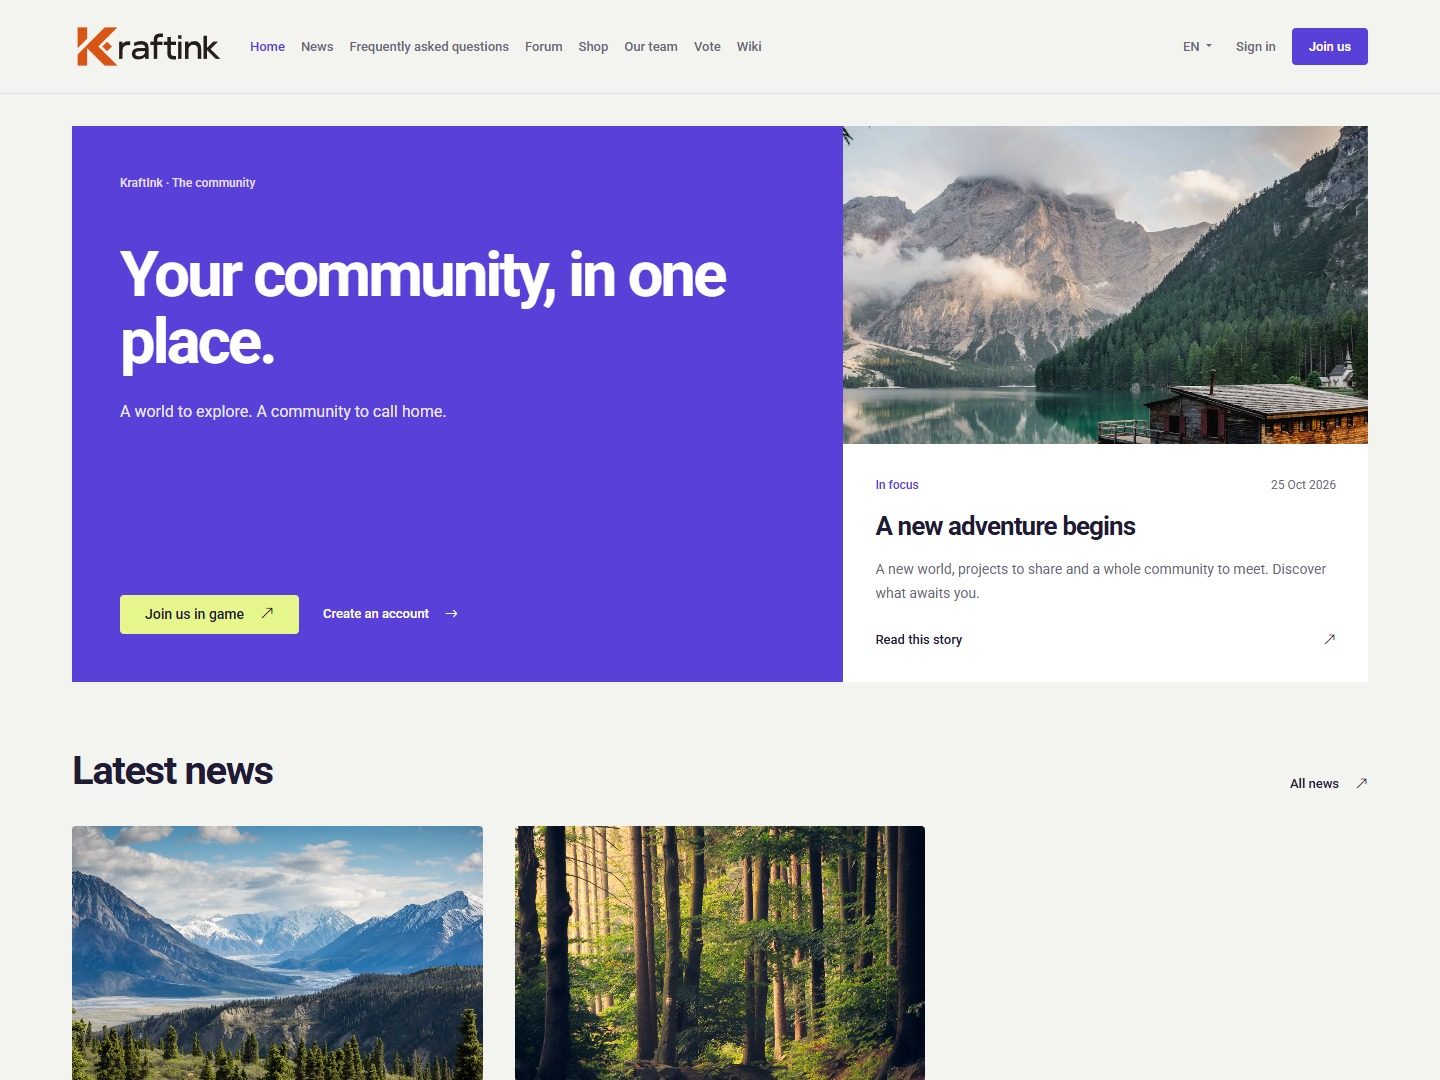
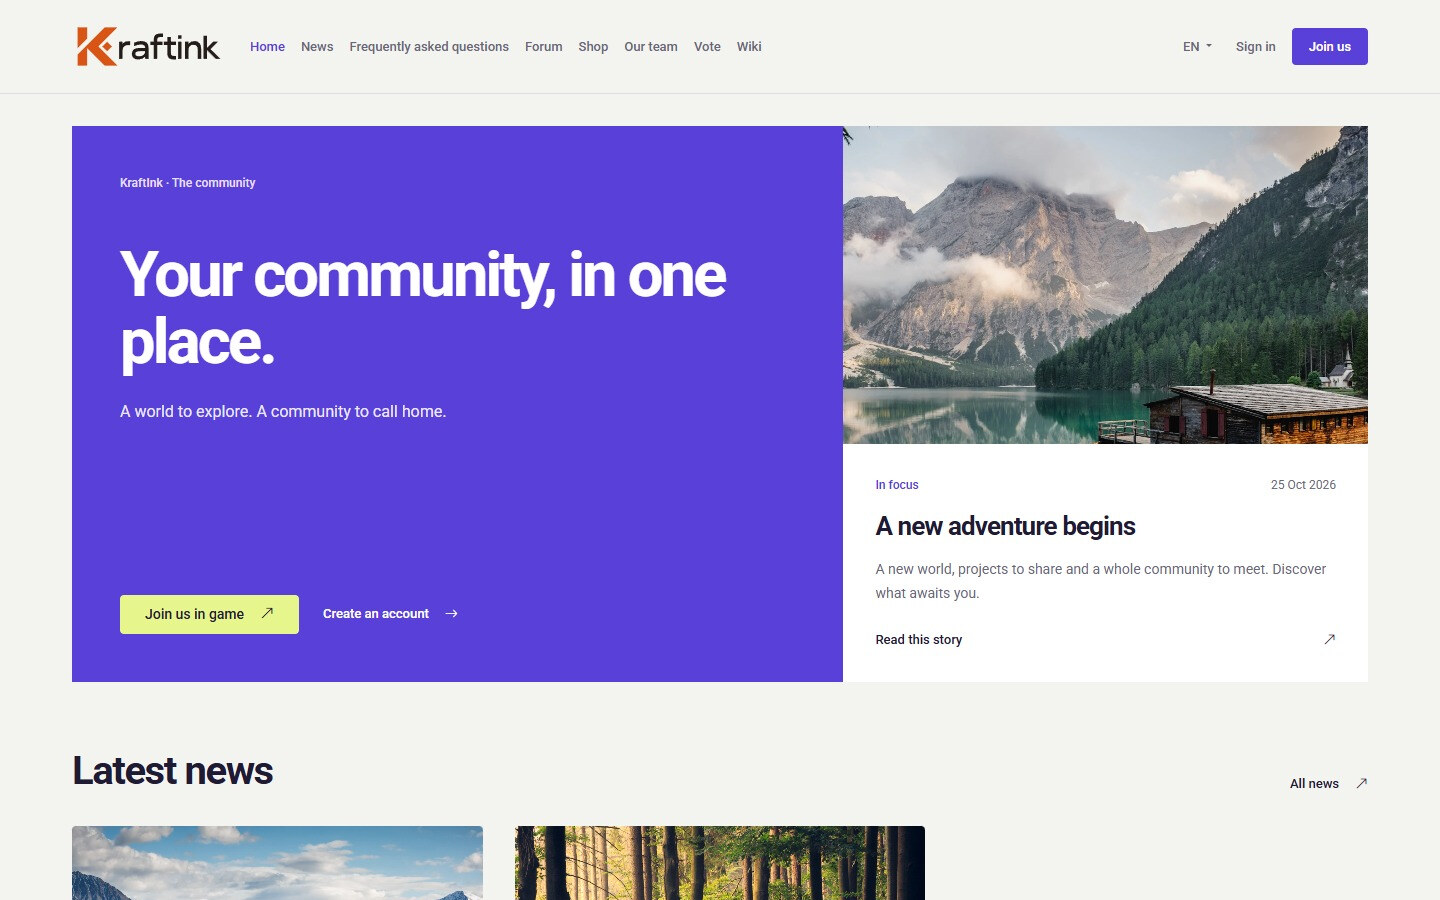
docs(market): add English and French listing

diff --git a/lang/fr/market.php b/lang/fr/market.php
@@ -1,5 +1,5 @@
 <?php
 
 return [
-    'description' => 'Un thème moderne aux tons ivoire et violet, à la typographie ample et aux actualités en composition asymétrique.',
+    'description' => 'Présentez votre serveur et mettez une actualité à la une dès l’accueil.',
 ];

diff --git a/lang/en/market.php b/lang/en/market.php
@@ -1,5 +1,5 @@
 <?php
 
 return [
-    'description' => 'A modern theme in ivory and violet, with spacious typography and an asymmetric news layout.',
+    'description' => 'Introduce your server and put a news post in the spotlight.',
 ];

diff --git a/lang/fr/market.md b/lang/fr/market.md
@@ -1,0 +1,5 @@
+Les visiteurs découvrent votre message de bienvenue à côté de l’article mis en avant. Plus bas, ils retrouvent les dernières publications.
+
+Présentez votre serveur dans le panneau de bienvenue. Publiez un article avec une image de couverture pour alimenter la une, puis renseignez l’adresse publique du serveur pour que les joueurs puissent vous rejoindre.
+
+Dans **Administration → Thèmes**, installez Atelier et cliquez sur **Utiliser pour le site**.

diff --git a/lang/en/market.md b/lang/en/market.md
@@ -1,0 +1,5 @@
+Visitors see your welcome message beside the featured article. Recent posts are listed below.
+
+Use the welcome panel to introduce your server. Publish a post with a cover image for the spotlight, then add a public server address so players can connect from the homepage.
+
+Install Atelier from **Administration → Themes** and select **Use for website**.
